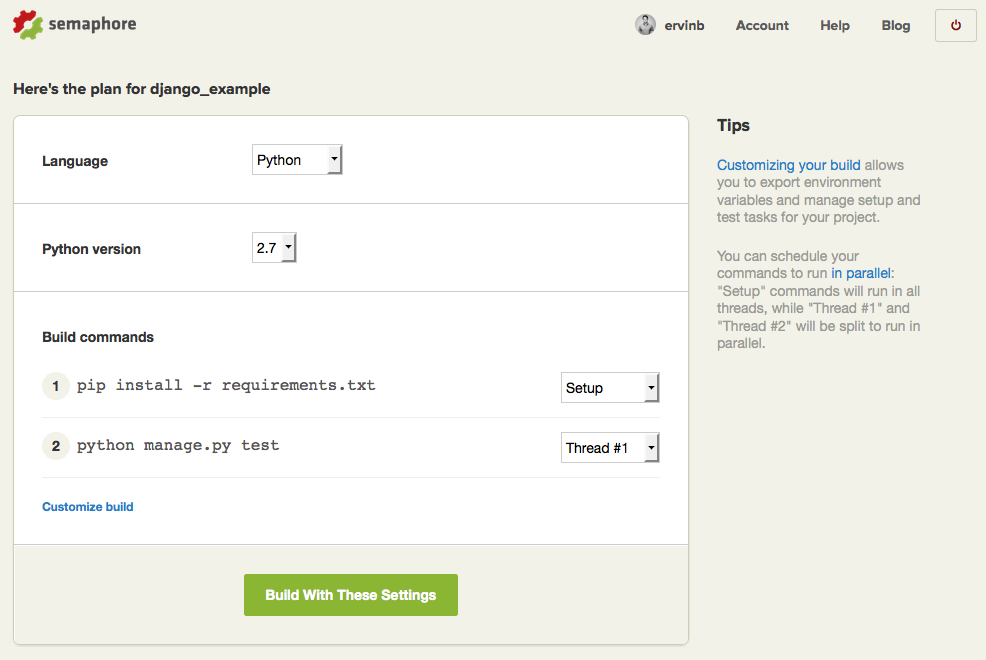
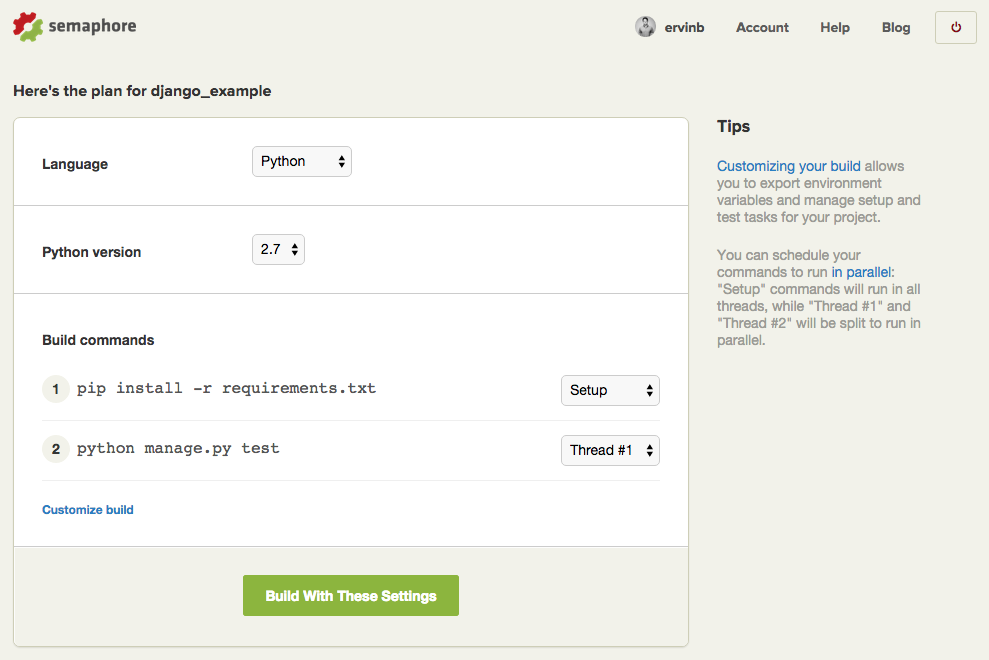
Reword some sentences and change a screenshot

diff --git a/source/docs/continuous-integration-deployment-django-with-github-semaphore-heroku.md b/source/docs/continuous-integration-deployment-django-with-github-semaphore-heroku.md
@@ -4,13 +4,13 @@ title: Continuous Integration and Deployment of a Django application from GitHub
 category: Python
 ---
 
-In this guide, I will show you how to deploy a Django application to Heroku
-using Semaphore. I will be using a barebones, open-source [Django repository](https://github.com/ervinb/django_example)
+In this guide, we will show you how to deploy a Django application to Heroku
+using Semaphore. We will be using a barebones, open-source [Django repository](https://github.com/ervinb/django_example)
 on GitHub. Feel free to fork it and use it to follow along if you don't have a
 project already set up.
 
-The sample application will be deployed automatically by Semaphore each time the
-master branch is built successfully. Semaphore let's us easily setup this kind of
+The sample application will be deployed automatically by Semaphore every time all
+tests pass on the master branch. Semaphore lets us easily set up this kind of
 deployment which is also known as continuous deployment. With this in place,
 we can be sure that we have a working code on our server at all times.
 
@@ -22,26 +22,26 @@ a breeze.
 ### Requirements
 
   - Heroku account
-  - Semaphore account
+  - Semaphore account ([create on here](https://semaphoreci.com/users/sign_up))
   - Python with virtualenv installed on your machine
   - git installed on your machine
 
 ### Setting up continuous integration with Semaphore and GitHub
 
 After creating a Semaphore account and hooking it up with your GitHub or BitBucket
-account, you are ready to start. The next step is to [add](https://semaphoreci.com/docs/adding-github-bitbucket-project-to-semaphore.html)
+account, you are ready to [add](https://semaphoreci.com/docs/adding-github-bitbucket-project-to-semaphore.html)
 the Django project from the list of your available repositories.
 
 <img src="/docs/assets/img/languages/python/deploy-django-to-heroku/django_project_list.png">
 
-In the following steps, selecting the branch and the account where to add the
-project will bring you to the analysis page, where Semaphore determines the
-settings for your project. These settings can be [changed at any time in
+In the following steps, selecting the branch and the account to which you wish
+to add the project will bring you to the analysis page, where Semaphore determines
+the settings for your project. These settings can be changed at any time in
 [Project Settings](https://semaphoreci.com/docs/customizing-build-commands.html).
 
 <img src="/docs/assets/img/languages/python/deploy-django-to-heroku/django_analysis_complete.png">
 
-Completing the setup will trigger the first build.
+Completing the setup will launch your the first build.
 
 <first-build-success>
 <img src="/docs/assets/img/languages/python/deploy-django-to-heroku/django_first_build.png">
@@ -50,7 +50,7 @@ Completing the setup will trigger the first build.
 
 By installing [heroku-toolbelt](https://toolbelt.heroku.com/debian), you gain
 access to [Heroku CLI](https://github.com/heroku/heroku). With this tool, you can
-setup your application on Heroku without leaving the comfort of your terminal.
+set up your application on Heroku without leaving the comfort of your terminal.
 
 ```
 $ heroku login
@@ -74,14 +74,14 @@ deploy.
 
 <img src="/docs/assets/img/languages/python/deploy-django-to-heroku/django_deployment_type.png">
 
-Select the branch which will be tied to the deployment.
+Select the branch from which you would like to deploy.
 
 <img src="/docs/assets/img/languages/python/deploy-django-to-heroku/django_deployment_branch.png">
 
 When asked for your Heroku API key, it can be found by going to [account settings](https://dashboard.heroku.com/account)
-on Heroku and clicking the "Show API Key" button on the bottom.
+on Heroku and clicking the "Show API Key" button at the bottom.
 
-Comming back to Semaphore, select the Heroku application to which Semaphore will
+Go back to Semaphore and select the Heroku application to which Semaphore will
 deploy your code.
 
 <img src="/docs/assets/img/languages/python/deploy-django-to-heroku/django_deployment_heroku_app.png">
@@ -104,6 +104,5 @@ will present you the Django application running on Heroku.
 
 <img src="/docs/assets/img/languages/python/deploy-django-to-heroku/django_deployment_app_page.png">
 
-After completing these steps, your project has continuous integration and deployment
-set up and you can enjoy the [befefits](https://semaphoreci.com/community/tutorials/continuous-integration)
-of this agile practice.
+After completing these steps, your project has [continuous integration and deployment](https://semaphoreci.com/community/tutorials/continuous-integration)
+set up and you can enjoy the benefits of this agile practice.
